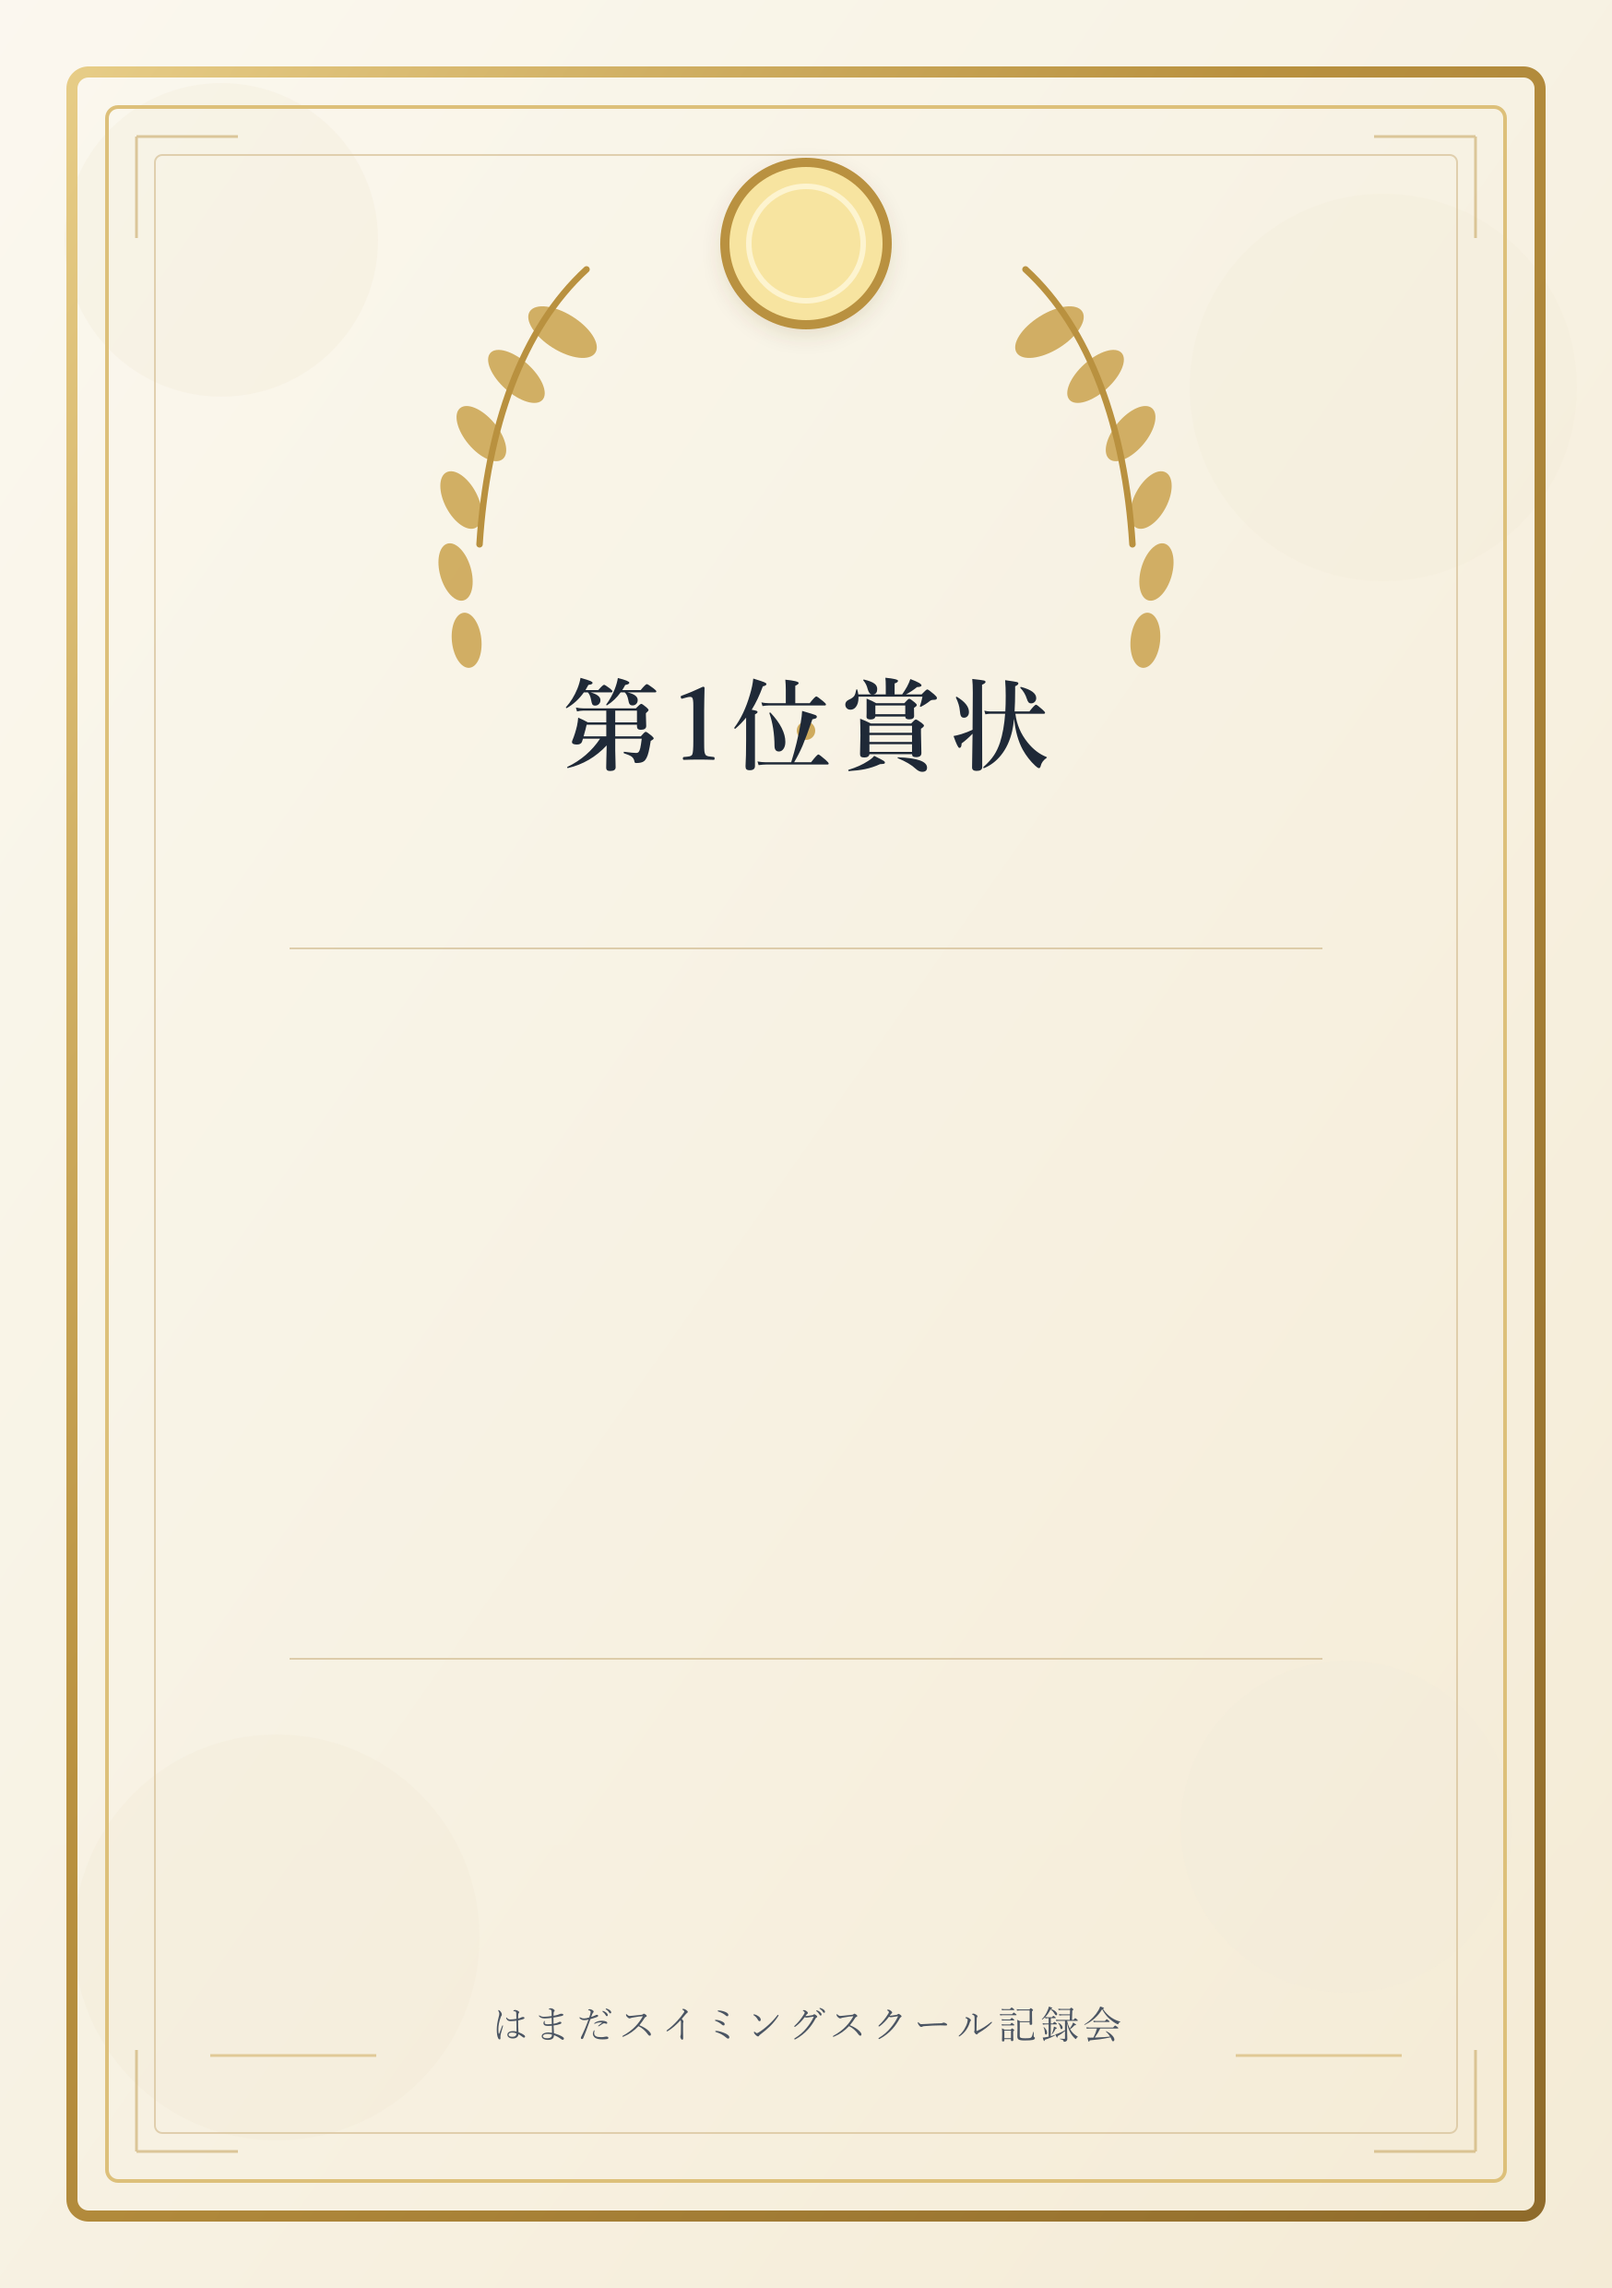
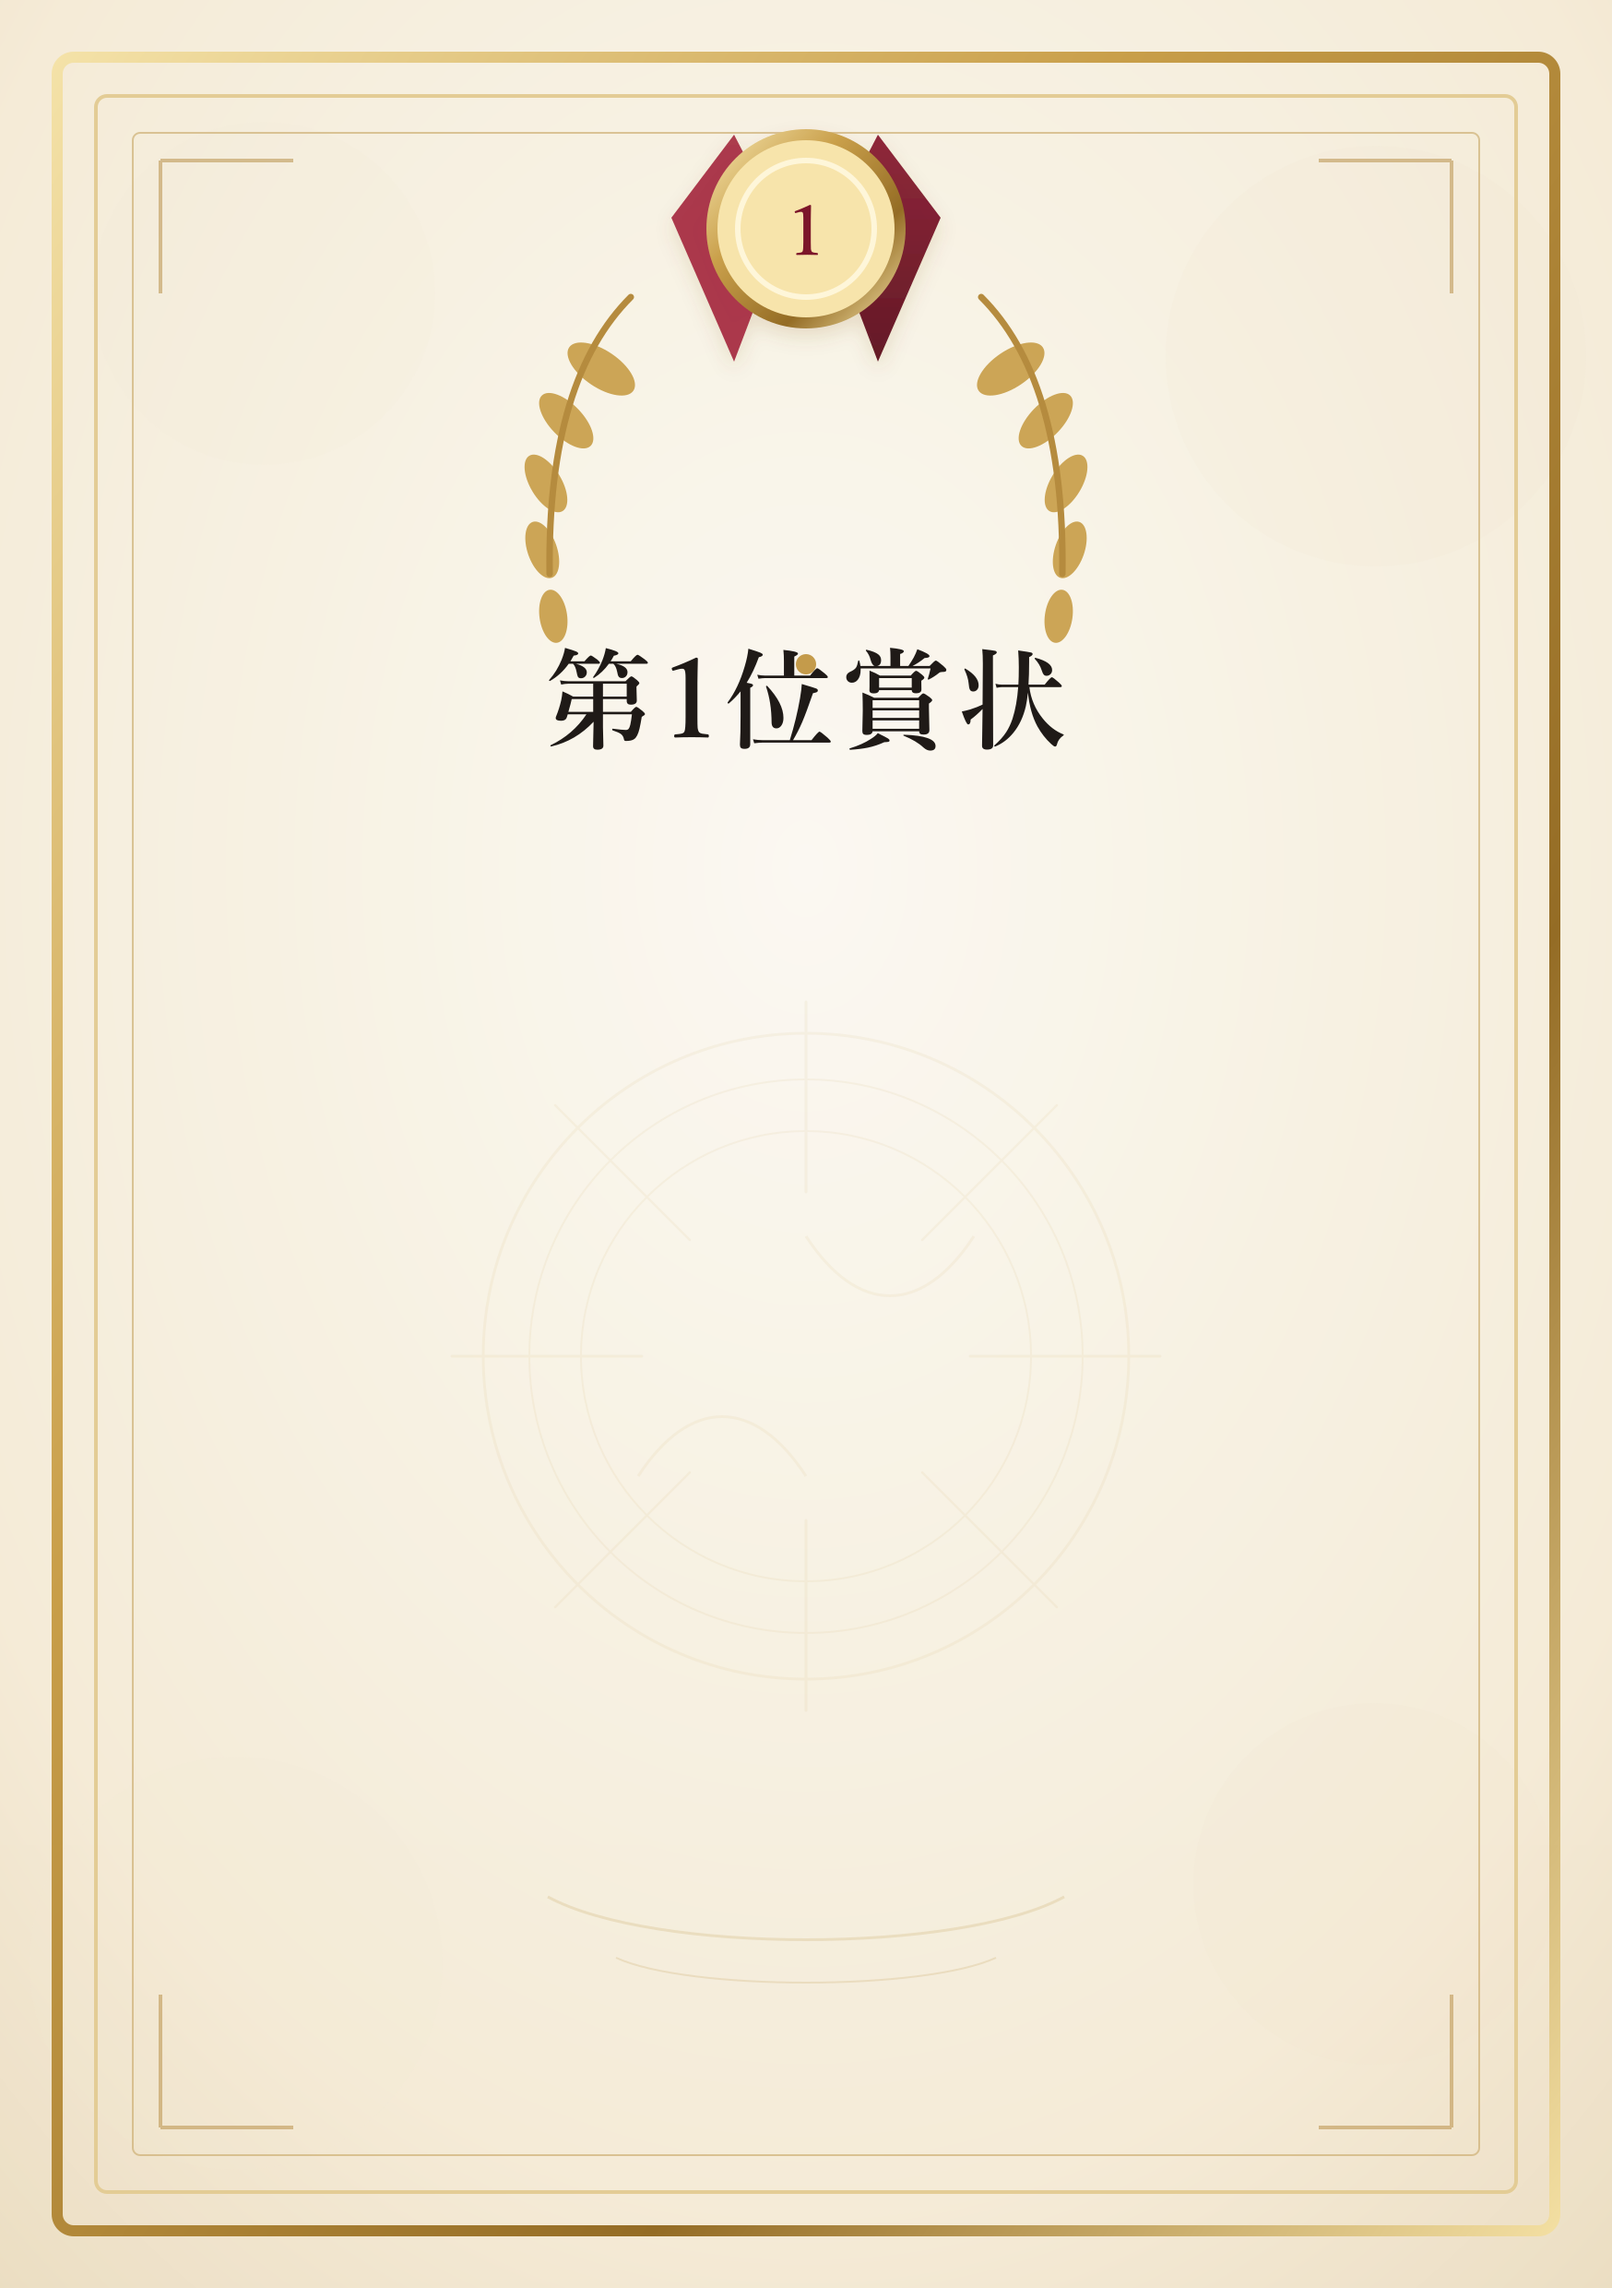
Refine first prize certificate layout

diff --git a/tests/first-prize-award-pdf-layout.test.ts b/tests/first-prize-award-pdf-layout.test.ts
@@ -171,7 +171,7 @@ describe("first prize award PDF layout", () => {
     const root = mockState.lastDocument as any;
     const nameElement = findTextElement(root, (text) => text.includes(longName));
     expect(nameElement).toBeTruthy();
-    expect(flattenStyle(nameElement.props.style).fontSize).toBe(30);
+    expect(flattenStyle(nameElement.props.style).fontSize).toBe(32);
   });
 
   it("reduces the name font size further for very long names", async () => {
@@ -193,7 +193,7 @@ describe("first prize award PDF layout", () => {
     const root = mockState.lastDocument as any;
     const nameElement = findTextElement(root, (text) => text.includes(veryLongName));
     expect(nameElement).toBeTruthy();
-    expect(flattenStyle(nameElement.props.style).fontSize).toBe(26);
+    expect(flattenStyle(nameElement.props.style).fontSize).toBe(28);
   });
 
   it("reduces the event font size for long event titles", async () => {
@@ -215,6 +215,32 @@ describe("first prize award PDF layout", () => {
     const root = mockState.lastDocument as any;
     const eventElement = findTextElement(root, (text) => text.includes(longEventTitle));
     expect(eventElement).toBeTruthy();
-    expect(flattenStyle(eventElement.props.style).fontSize).toBe(16);
+    expect(flattenStyle(eventElement.props.style).fontSize).toBe(17);
+    expect(flattenStyle(eventElement.props.style).lineHeight).toBe(1.3);
+  });
+
+  it("keeps the default larger font sizes for shorter name and event values", async () => {
+    await renderFirstPrizeAwardPdf({
+      athlete: {
+        fullName: "横手 翔太朗",
+        fullNameKana: "よこて しょうたろう",
+        grade: 9,
+        gender: "male"
+      },
+      eventTitle: "30mクロール",
+      timeText: "29.49",
+      timeMs: 29_490,
+      issueLabel: "2025年9月"
+    });
+
+    const root = mockState.lastDocument as any;
+    const nameElement = findTextElement(root, (text) => text.includes("横手 翔太朗"));
+    const eventElement = findTextElement(root, (text) => text.includes("30mクロール"));
+
+    expect(nameElement).toBeTruthy();
+    expect(eventElement).toBeTruthy();
+    expect(flattenStyle(nameElement.props.style).fontSize).toBe(36);
+    expect(flattenStyle(eventElement.props.style).fontSize).toBe(19);
+    expect(flattenStyle(eventElement.props.style).lineHeight).toBe(1.3);
   });
 });

diff --git a/lib/pdf.tsx b/lib/pdf.tsx
@@ -238,28 +238,28 @@ function resolveRecordNameFontSize(fullName: string): 24 | 21 | 18 {
   return 24;
 }
 
-function resolveFirstPrizeAwardNameFontSize(fullName: string): 34 | 30 | 26 {
+function resolveFirstPrizeAwardNameFontSize(fullName: string): 36 | 32 | 28 {
   const normalizedLength = fullName.replace(/\s+/g, "").length;
 
   if (normalizedLength >= 12) {
-    return 26;
+    return 28;
   }
 
   if (normalizedLength >= 9) {
-    return 30;
+    return 32;
   }
 
-  return 34;
+  return 36;
 }
 
-function resolveFirstPrizeAwardEventFontSize(eventTitle: string): 18 | 16 {
+function resolveFirstPrizeAwardEventFontSize(eventTitle: string): 19 | 17 {
   const normalizedLength = eventTitle.replace(/\s+/g, "").length;
 
   if (normalizedLength >= 13) {
-    return 16;
+    return 17;
   }
 
-  return 18;
+  return 19;
 }
 
 const styles = StyleSheet.create({
@@ -706,7 +706,7 @@ const styles = StyleSheet.create({
   },
   firstPrizeAwardKana: {
     position: "absolute",
-    top: 214,
+    top: 206,
     left: 0,
     width: A5_WIDTH,
     textAlign: "center",
@@ -716,40 +716,40 @@ const styles = StyleSheet.create({
   },
   firstPrizeAwardName: {
     position: "absolute",
-    top: 236,
+    top: 228,
     left: 0,
     width: A5_WIDTH,
     textAlign: "center",
-    fontSize: 34,
+    fontSize: 36,
     fontWeight: 700,
     color: "#111827",
     lineHeight: 1.15
   },
   firstPrizeAwardMeta: {
     position: "absolute",
-    top: 300,
+    top: 286,
     left: 0,
     width: A5_WIDTH,
     textAlign: "center",
     fontSize: 13,
     fontWeight: 700,
-    color: "#374151",
+    color: "#4b5563",
     letterSpacing: 0.2
   },
   firstPrizeAwardEvent: {
     position: "absolute",
-    top: 356,
+    top: 340,
     left: 0,
     width: A5_WIDTH,
     textAlign: "center",
-    fontSize: 18,
+    fontSize: 19,
     fontWeight: 700,
     color: "#111827",
     lineHeight: 1.3
   },
   firstPrizeAwardTime: {
     position: "absolute",
-    top: 406,
+    top: 392,
     left: 0,
     width: A5_WIDTH,
     textAlign: "center",
@@ -759,7 +759,7 @@ const styles = StyleSheet.create({
   },
   firstPrizeAwardIssueLabel: {
     position: "absolute",
-    top: 492,
+    top: 470,
     left: 0,
     width: A5_WIDTH,
     textAlign: "center",

diff --git a/public/pdf-templates/README.md b/public/pdf-templates/README.md
@@ -5,6 +5,7 @@ PDF台紙をこのフォルダに配置してください。
 サイズは A5 縦（推奨: 1748x2480px, 300dpi）に合わせてください。
 写真やグラデーションが多い台紙は `.jpg` / `.jpeg` を推奨します。大きい台紙はサーバー側で軽量化してから PDF に埋め込みます。
 標準の 1位賞状台紙は、正統派の賞状寄りデザインを想定しています。
+標準台紙は `第1位賞状` 以外の固定文を置かず、差し込み項目を中央の余白で見せる前提です。
 
 ## 記録証について
 記録証は現在、画像テンプレートではなくコードレイアウトで生成しています。
